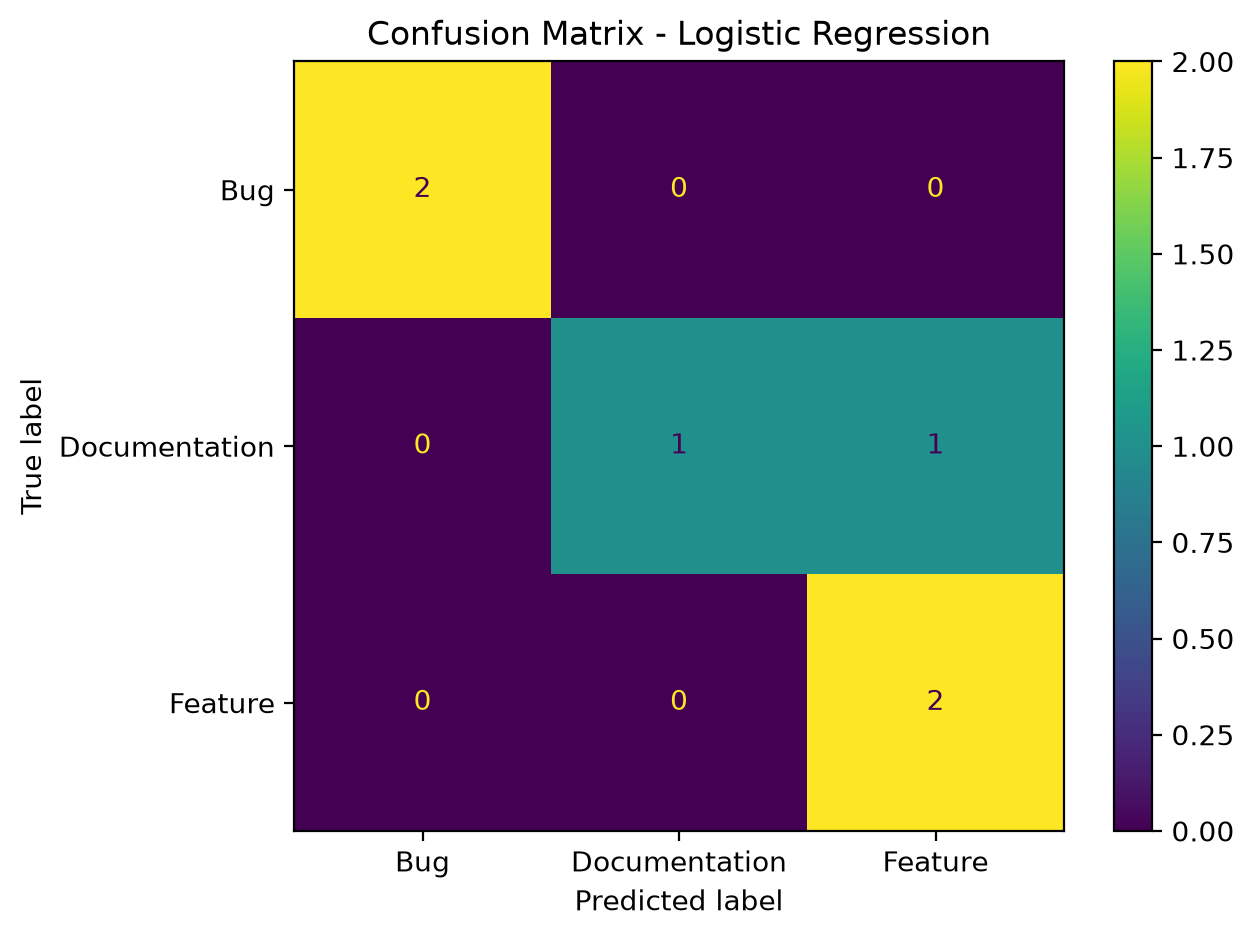
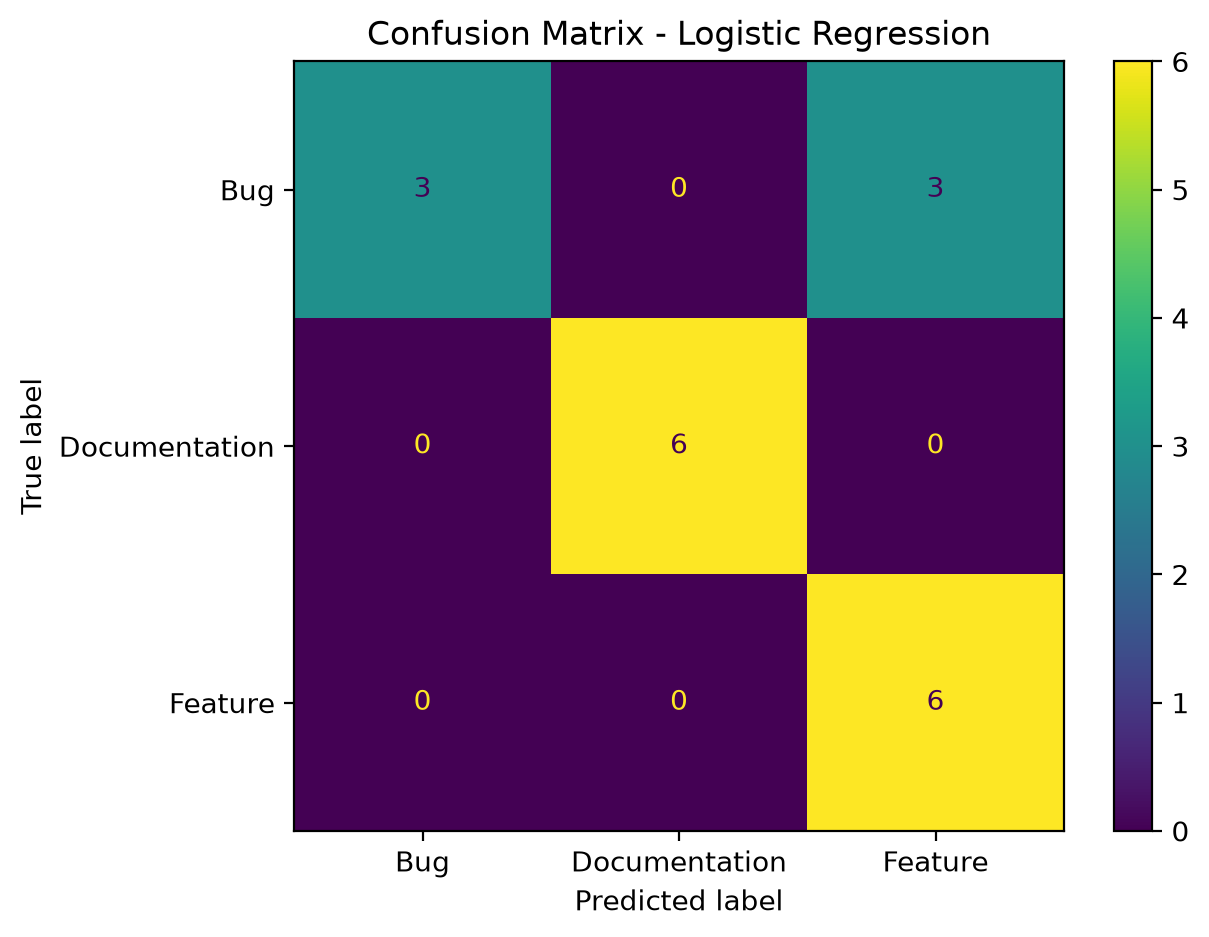
Expand training dataset to 90 labeled issues

diff --git a/src/expand_dataset.py b/src/expand_dataset.py
@@ -1,0 +1,298 @@
+from pathlib import Path
+
+import pandas as pd
+
+
+# Projenin ana klasörünü bul
+project_root = Path(__file__).resolve().parent.parent
+
+# Veri setinin konumu
+dataset_file = project_root / "data" / "bug_reports.csv"
+
+
+# Veri setine eklenecek yeni ve etiketli örnekler
+new_records = [
+    # --------------------------------------------------
+    # BUG ÖRNEKLERİ
+    # --------------------------------------------------
+    {
+        "text": "Filtre değiştirildiğinde arama sonuçları yenilenmiyor.",
+        "label": "Bug",
+    },
+    {
+        "text": "Şifre sıfırlama e-postasındaki bağlantı 404 hatası veriyor.",
+        "label": "Bug",
+    },
+    {
+        "text": "Büyük bir dosya yüklenirken tarayıcı donuyor.",
+        "label": "Bug",
+    },
+    {
+        "text": "Dışa aktarılan raporda Türkçe karakterler bozuk görünüyor.",
+        "label": "Bug",
+    },
+    {
+        "text": "Bildirim sayacı bazı kullanıcılarda negatif değer gösteriyor.",
+        "label": "Bug",
+    },
+    {
+        "text": "Sayfa yenilendiğinde sepetteki ürünler kayboluyor.",
+        "label": "Bug",
+    },
+    {
+        "text": "Seçilen tarih kaydedilirken bir önceki gün olarak görünüyor.",
+        "label": "Bug",
+    },
+    {
+        "text": "Mobil klavye form gönderme butonunun üzerini kapatıyor.",
+        "label": "Bug",
+    },
+    {
+        "text": "Aynı sipariş için iki farklı fatura numarası oluşturuluyor.",
+        "label": "Bug",
+    },
+    {
+        "text": "Yetkisi olmayan kullanıcı yönetici butonunu görebiliyor.",
+        "label": "Bug",
+    },
+    {
+        "text": "Silinen ürün arama sonuçlarında görünmeye devam ediyor.",
+        "label": "Bug",
+    },
+    {
+        "text": "İndirim kodu ödeme sırasında iki kez uygulanıyor.",
+        "label": "Bug",
+    },
+    {
+        "text": "Google ile giriş yapıldıktan sonra yönlendirme döngüye giriyor.",
+        "label": "Bug",
+    },
+    {
+        "text": "PDF raporunun son sayfası oluşturulmuyor.",
+        "label": "Bug",
+    },
+    {
+        "text": "Otomatik kaydetme daha yeni olan değişikliklerin üzerine yazıyor.",
+        "label": "Bug",
+    },
+    {
+        "text": "Oturum süresi dolduğunda kullanıcı giriş ekranına yönlendirilmiyor.",
+        "label": "Bug",
+    },
+    {
+        "text": "Arama işlemi büyük ve küçük harflere göre farklı sonuç veriyor.",
+        "label": "Bug",
+    },
+    {
+        "text": "Saat dilimi değiştirildiğinde rapor grafiği yanlış verileri gösteriyor.",
+        "label": "Bug",
+    },
+    {
+        "text": "Geri tuşuna basıldığında parola alanındaki değer görünür oluyor.",
+        "label": "Bug",
+    },
+    {
+        "text": "İsteğe bağlı alan boş gönderildiğinde API 500 hatası döndürüyor.",
+        "label": "Bug",
+    },
+
+    # --------------------------------------------------
+    # FEATURE ÖRNEKLERİ
+    # --------------------------------------------------
+    {
+        "text": "Kullanıcıların iki aşamalı doğrulamayı etkinleştirebilmesi sağlanmalı.",
+        "label": "Feature",
+    },
+    {
+        "text": "Arama geçmişini temizlemek için bir buton eklenmeli.",
+        "label": "Feature",
+    },
+    {
+        "text": "Sipariş listesine Excel olarak dışa aktarma özelliği eklenmeli.",
+        "label": "Feature",
+    },
+    {
+        "text": "Kullanıcılar profil fotoğraflarını kırpabilmeli.",
+        "label": "Feature",
+    },
+    {
+        "text": "Uygulamaya açık ve koyu tema arasında otomatik geçiş eklenmeli.",
+        "label": "Feature",
+    },
+    {
+        "text": "Bildirimler okunmadı olarak işaretlenebilmelidir.",
+        "label": "Feature",
+    },
+    {
+        "text": "Raporlar belirli tarihlerde otomatik olarak e-posta ile gönderilmeli.",
+        "label": "Feature",
+    },
+    {
+        "text": "Kullanıcıların birden fazla teslimat adresi kaydedebilmesi sağlanmalı.",
+        "label": "Feature",
+    },
+    {
+        "text": "Ürün karşılaştırma ekranı eklenmeli.",
+        "label": "Feature",
+    },
+    {
+        "text": "Yönetici paneline toplu kullanıcı silme özelliği eklenmeli.",
+        "label": "Feature",
+    },
+    {
+        "text": "Formlara taslak olarak kaydetme seçeneği eklenmeli.",
+        "label": "Feature",
+    },
+    {
+        "text": "Kullanıcılar uygulama dilini profil ayarlarından değiştirebilmeli.",
+        "label": "Feature",
+    },
+    {
+        "text": "Arama sonuçları puana göre sıralanabilmeli.",
+        "label": "Feature",
+    },
+    {
+        "text": "Projelerde ekip üyelerini etiketleme özelliği olmalı.",
+        "label": "Feature",
+    },
+    {
+        "text": "Sisteme takvim görünümü eklenmeli.",
+        "label": "Feature",
+    },
+    {
+        "text": "Kullanıcıların kendi bildirim seslerini seçebilmesi sağlanmalı.",
+        "label": "Feature",
+    },
+    {
+        "text": "Yüklenen dosyalar için ön izleme ekranı eklenmeli.",
+        "label": "Feature",
+    },
+    {
+        "text": "Kullanıcı etkinliklerini gösteren zaman çizelgesi oluşturulmalı.",
+        "label": "Feature",
+    },
+    {
+        "text": "Raporlara özel tarih aralığı filtresi eklenmeli.",
+        "label": "Feature",
+    },
+    {
+        "text": "Kullanıcıların hesap verilerini indirebilmesi sağlanmalı.",
+        "label": "Feature",
+    },
+
+    # --------------------------------------------------
+    # DOCUMENTATION ÖRNEKLERİ
+    # --------------------------------------------------
+    {
+        "text": "JWT yapılandırma adımları geliştirici dokümanında açıklanmalı.",
+        "label": "Documentation",
+    },
+    {
+        "text": "Docker ile çalıştırma komutları README dosyasına eklenmeli.",
+        "label": "Documentation",
+    },
+    {
+        "text": "API kimlik doğrulama örnekleri dokümantasyonda gösterilmeli.",
+        "label": "Documentation",
+    },
+    {
+        "text": "Veri tabanı yedekleme işlemi kullanıcı kılavuzunda anlatılmalı.",
+        "label": "Documentation",
+    },
+    {
+        "text": "Geliştirme ortamının kurulumu adım adım belgelenmeli.",
+        "label": "Documentation",
+    },
+    {
+        "text": "Her ortam değişkeninin görevi README dosyasında açıklanmalı.",
+        "label": "Documentation",
+    },
+    {
+        "text": "API cevap kodları için açıklayıcı bir tablo hazırlanmalı.",
+        "label": "Documentation",
+    },
+    {
+        "text": "Yeni geliştiriciler için projeye katkı rehberi yazılmalı.",
+        "label": "Documentation",
+    },
+    {
+        "text": "Şifre politikaları güvenlik dokümanına eklenmeli.",
+        "label": "Documentation",
+    },
+    {
+        "text": "Model eğitim komutları proje kılavuzunda açıklanmalı.",
+        "label": "Documentation",
+    },
+    {
+        "text": "Streamlit uygulamasının başlatılma adımları belgelenmeli.",
+        "label": "Documentation",
+    },
+    {
+        "text": "CSV veri setindeki sütunların anlamı dokümana eklenmeli.",
+        "label": "Documentation",
+    },
+    {
+        "text": "Geri bildirim dosyasının nasıl kullanıldığı açıklanmalı.",
+        "label": "Documentation",
+    },
+    {
+        "text": "Üretim ortamına yayınlama adımları README dosyasına yazılmalı.",
+        "label": "Documentation",
+    },
+    {
+        "text": "Sık kullanılan Git komutları katkı rehberine eklenmeli.",
+        "label": "Documentation",
+    },
+    {
+        "text": "Model değerlendirme metriklerinin anlamı açıklanmalı.",
+        "label": "Documentation",
+    },
+    {
+        "text": "Confusion matrix görselinin nasıl yorumlanacağı belgelenmeli.",
+        "label": "Documentation",
+    },
+    {
+        "text": "Desteklenen Python sürümleri kurulum sayfasında belirtilmeli.",
+        "label": "Documentation",
+    },
+    {
+        "text": "Bilinen sorunlar için ayrı bir dokümantasyon bölümü hazırlanmalı.",
+        "label": "Documentation",
+    },
+    {
+        "text": "Proje lisansı ve kullanım koşulları README dosyasında açıklanmalı.",
+        "label": "Documentation",
+    },
+]
+
+
+# Mevcut veri setini oku
+existing_data = pd.read_csv(dataset_file)
+
+# Yeni örnekleri tabloya dönüştür
+new_data = pd.DataFrame(new_records)
+
+# Eski ve yeni verileri birleştir
+combined_data = pd.concat(
+    [existing_data, new_data],
+    ignore_index=True,
+)
+
+# Aynı metin ve etiket tekrar eklenmişse kaldır
+combined_data = combined_data.drop_duplicates(
+    subset=["text", "label"]
+)
+
+# Temizlenmiş veri setini tekrar kaydet
+combined_data.to_csv(
+    dataset_file,
+    index=False,
+    encoding="utf-8-sig",
+)
+
+
+print("Önceki kayıt sayısı:", len(existing_data))
+print("Yeni toplam kayıt sayısı:", len(combined_data))
+
+print("\nKategori dağılımı:")
+print(combined_data["label"].value_counts())